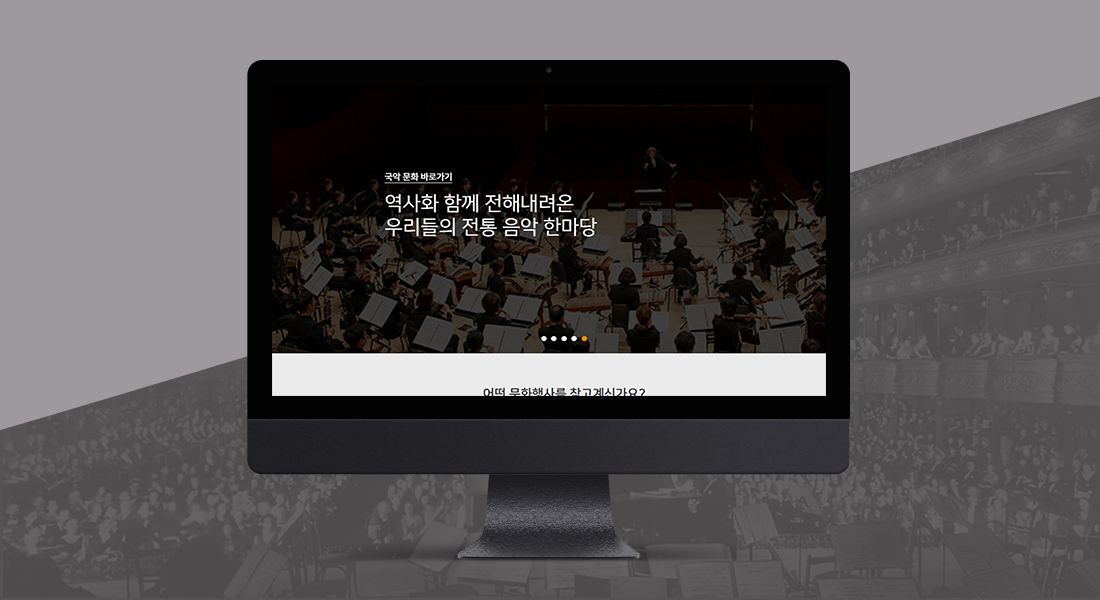
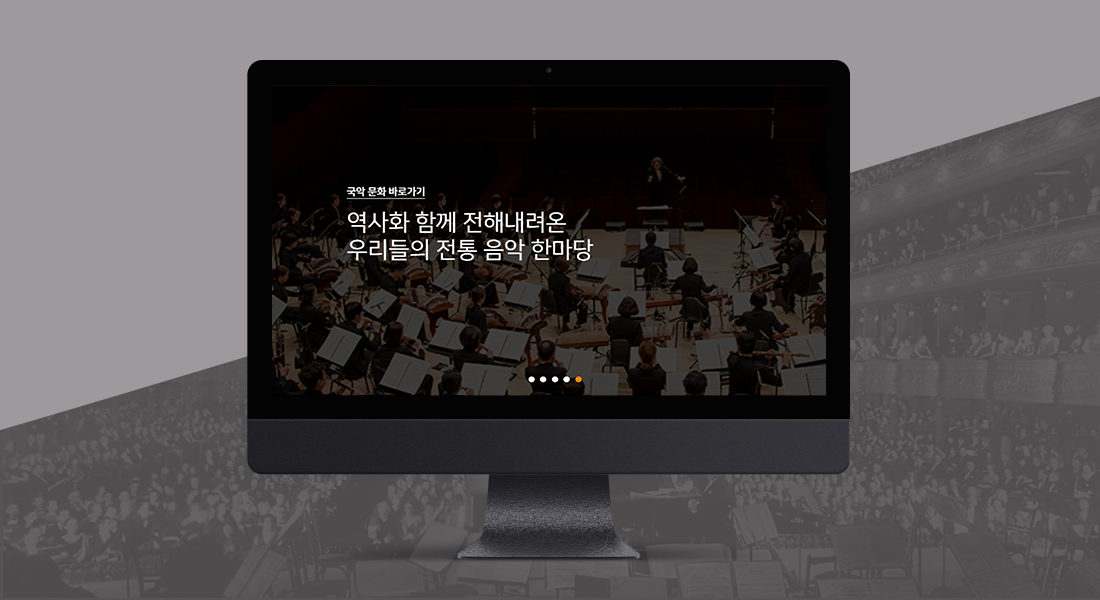
detail slide 기능 추가

Changed region(s): [[0.2473, 0.27, 0.7727, 0.66], [0.5873, 0.24, 0.6182, 0.3]]

diff --git a/src/views/Detail.vue b/src/views/Detail.vue
@@ -15,9 +15,9 @@
       <div class="content_description">
         <div class="description">
           <div class="description_slide">
-            <button class="prev_card"></button>
+            <button class="prev_card" @click="prevList"></button>
             <div class="slide_box">
-              <ul class="slide_list">
+              <ul class="slide_list" :style="{transform: 'translateX(-'+(listIndex * 100)+'%)'}">
                 <li
                   class="slide_item"
                   v-for="item in detailData[detailIndex].img_src"
@@ -28,14 +28,14 @@
                   </figure>
                 </li>
               </ul>
-              <ul class="slide_indicate">
-                <!-- <li></li>
-                <li class="select"></li>
-                <li></li>
-                <li></li>-->
+              <ul
+                class="slide_indicate"
+                :style="{width : ((12 * detailData[detailIndex].img_src.length) + (15 * (detailData[detailIndex].img_src.length - 1)) + 12) / 16 + 'rem'} "
+              >
+                <li v-for="list in detailData[detailIndex].img_src" :key="list.id"></li>
               </ul>
             </div>
-            <button class="next_card"></button>
+            <button class="next_card" @click="nextList"></button>
           </div>
           <div class="description_text">
             <div>
@@ -101,8 +101,13 @@ export default {
     vueFooter,
   },
   created() {},
+  mounted() {
+    let list = document.querySelectorAll(".slide_indicate li");
+    list[0].classList.add("select");
+  },
   data() {
     return {
+      listIndex: 0,
       detailIndex: this.$store.state.dataIndex,
       detailData: this.$store.state.project,
     };
@@ -117,6 +122,31 @@ export default {
       if (this.detailIndex < this.detailData.length - 1) {
         this.detailIndex++;
       }
+    },
+    prevList: function () {
+      if (this.listIndex > 0) {
+        this.listIndex--;
+        console.log(this.listIndex);
+        this.activeIndi();
+      }
+    },
+    nextList: function () {
+      if (
+        this.listIndex <
+        this.detailData[this.detailIndex].img_src.length - 1
+      ) {
+        this.listIndex++;
+        console.log(this.listIndex);
+        this.activeIndi();
+      }
+    },
+    activeIndi: function () {
+      let item = document.querySelectorAll(".slide_indicate li");
+      item.forEach((i) => {
+        i.classList.remove("select");
+      });
+
+      item[this.listIndex].classList.add("select");
     },
   },
 };
@@ -142,7 +172,7 @@ export default {
         position: absolute;
         left: 0;
         top: 0;
-        background-color: rgba(0, 0, 0, 0.3);
+        background-color: rgba(0, 0, 0, 0.5);
       }
 
       .content_title {
@@ -162,7 +192,6 @@ export default {
           font-weight: 600;
           text-align: center;
           color: #ffffff;
-          text-shadow: 0.125rem 0.1875rem 0.5625rem #4e4e4e;
         }
 
         .prev_card {
@@ -239,6 +268,7 @@ export default {
 
             .slide_list {
               display: flex;
+              transition: transform 0.4s;
 
               .slide_item {
                 figure {
@@ -261,6 +291,7 @@ export default {
               bottom: 1.875rem;
               left: 50%;
               transform: translateX(-50%);
+              height: 1.5rem;
 
               li {
                 width: 0.75rem;
@@ -269,6 +300,7 @@ export default {
                 border-radius: 50%;
                 margin-right: 0.9375rem;
                 cursor: pointer;
+                transition: width 0.3s, height 0.3s;
 
                 &:last-child {
                   margin-right: 0;
